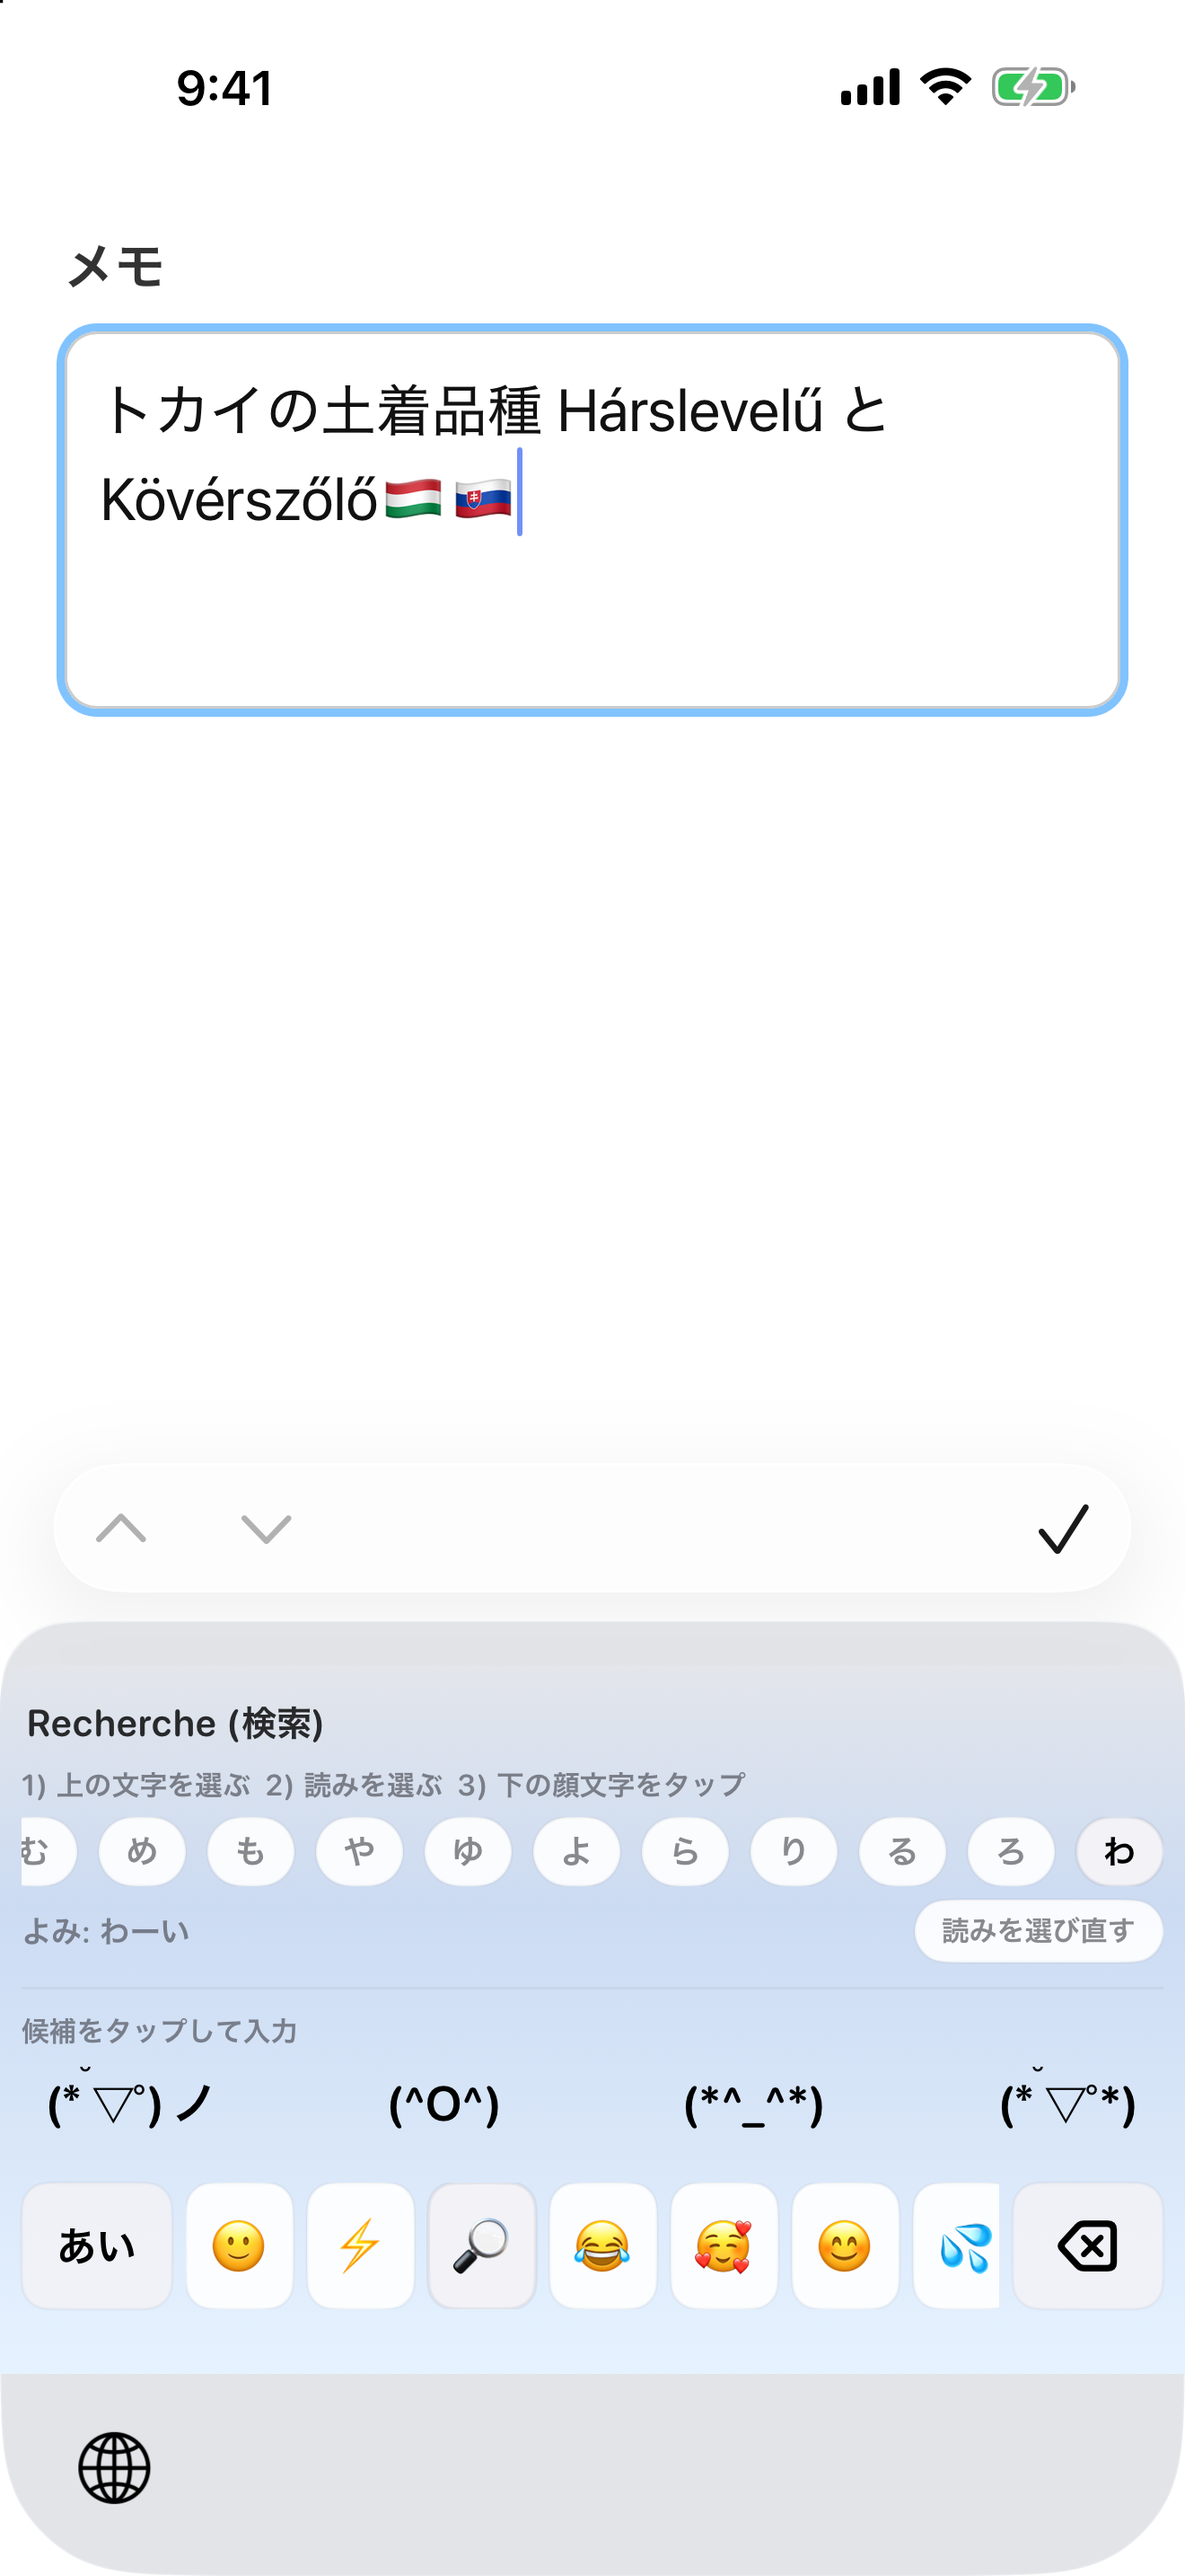
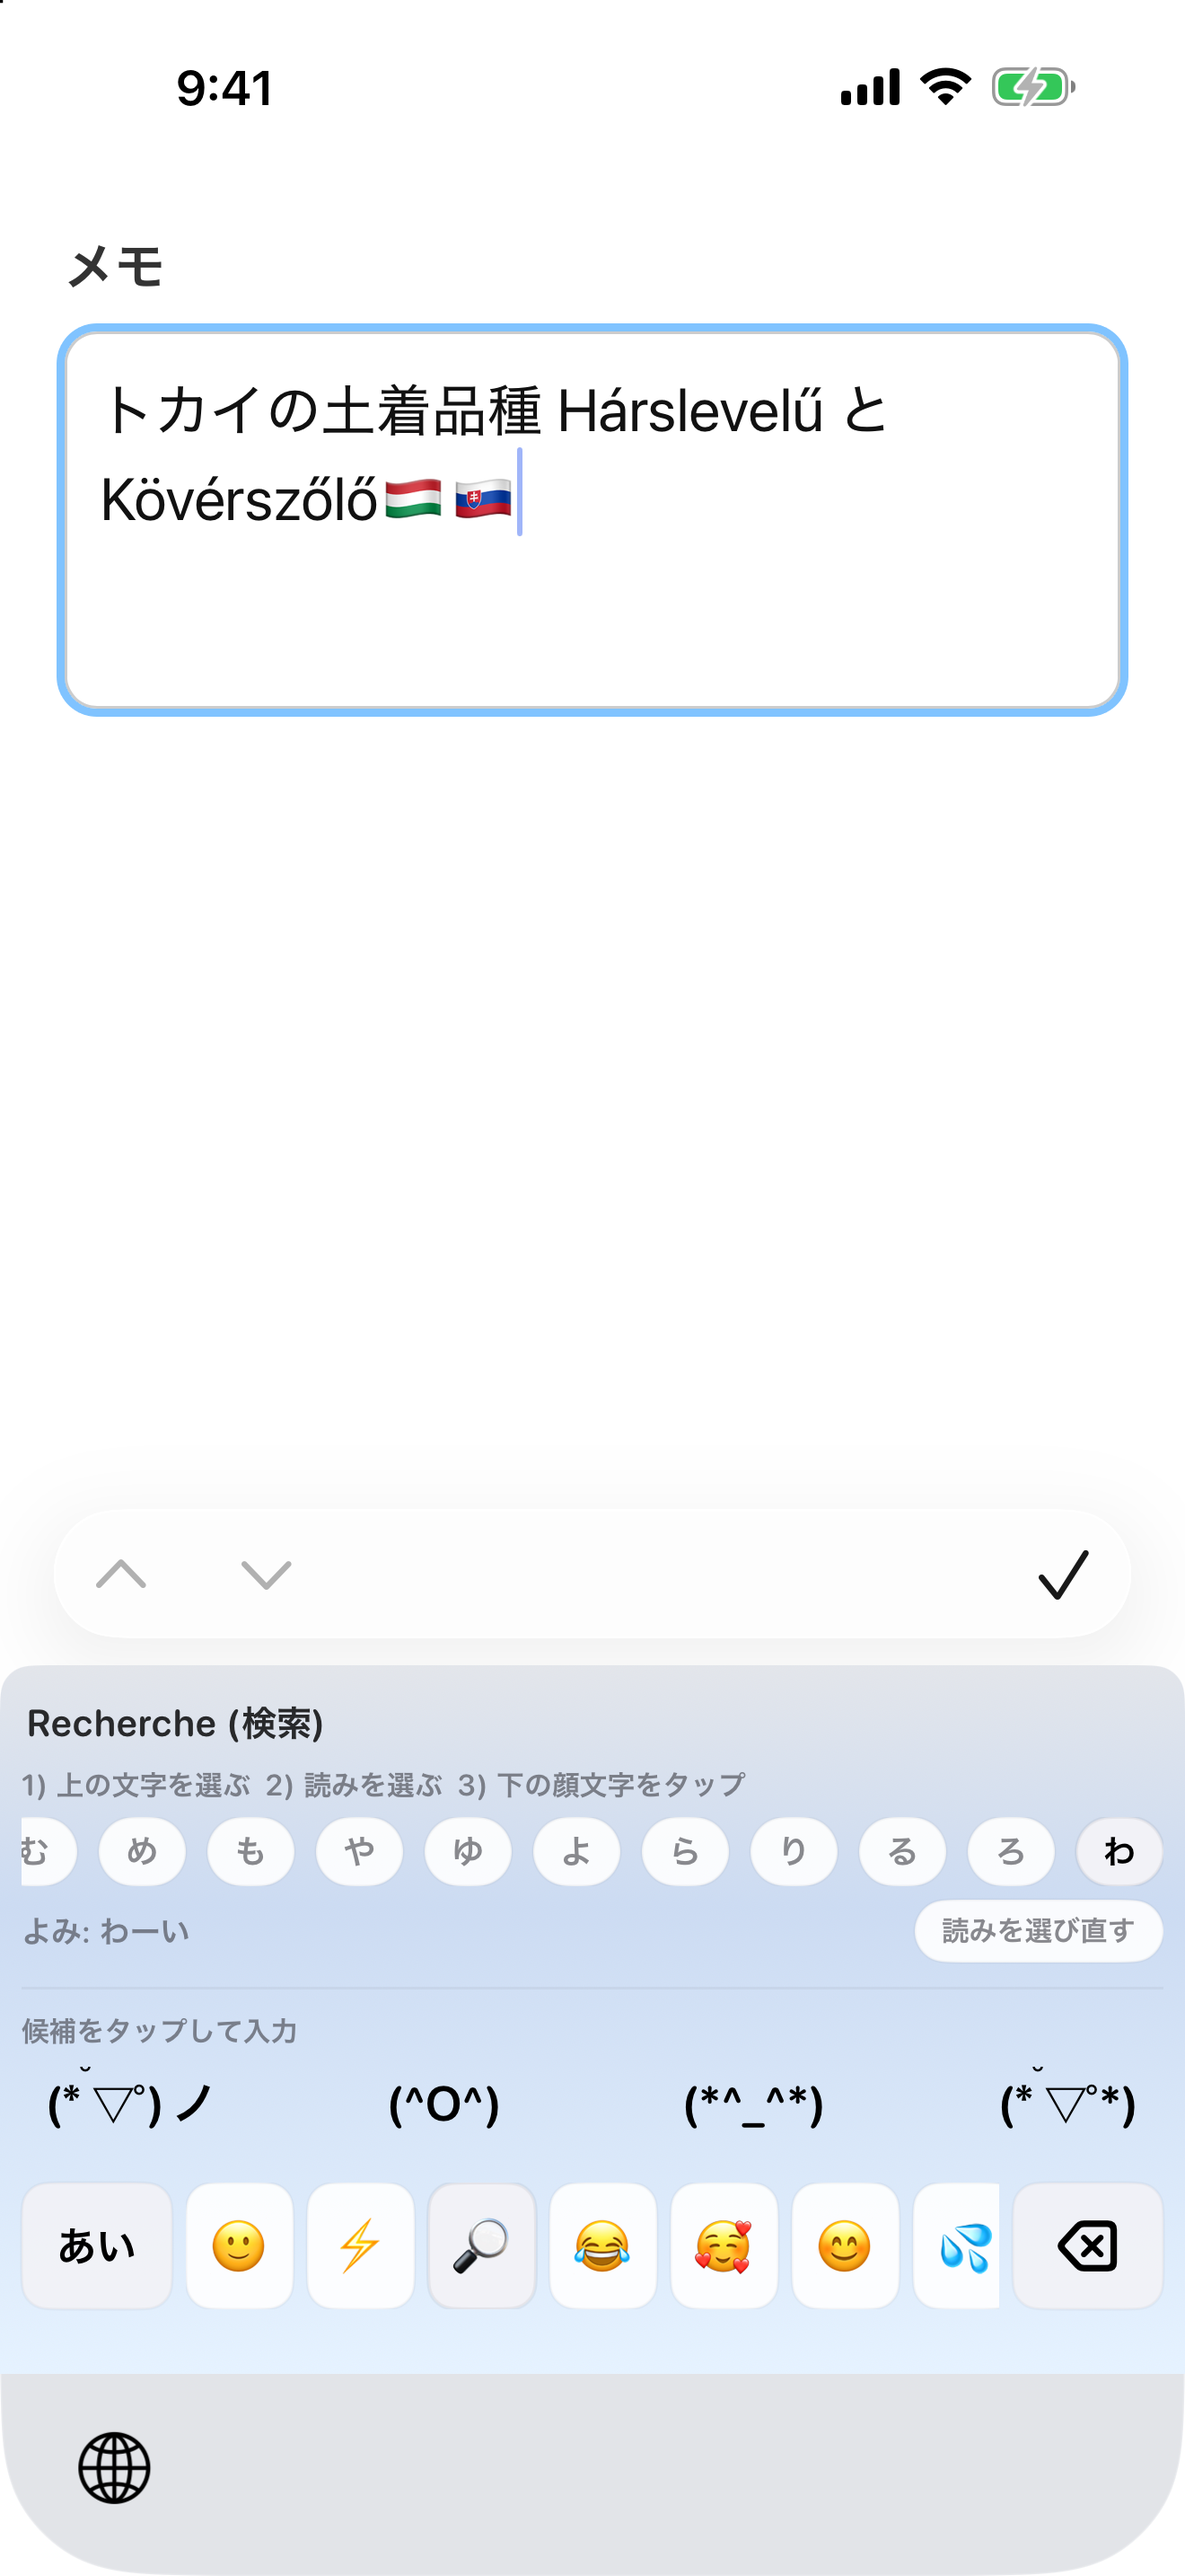
docs(appstore): スクリーンショット 01・03・04 を、iOS が足す 17pt の余白が付かない回で撮り直し、高さを 02 にそろえる
撮影では製品の上余白の補正を切っているので、iOS が他社製キーボードの上に 17pt の余白を足した回だけ
キーボードが高く写っていた(01・03・04)。アプリの入れ直しを省く SKIP_INSTALL=1 と、最初から指定の面で開く
フックを足し、余白が付かない回を選んだ。5 枚ともキーボードの上端が同じ位置にそろったことを画素で確かめた。
高さの測り方と対策を screenshots-plan.md に記録した。

diff --git a/appstore/apply-screenshot-hooks.py b/appstore/apply-screenshot-hooks.py
@@ -242,7 +242,30 @@ patch("KeyboardViewController+Layout.swift", [(
     "    static let hostPlaceholderTopInset: CGFloat = 0  // ★撮影用の一時変更(コミットしない)",
 )])
 
-# 6. 2 段階フリックの吹き出しを出したままにする
+# 6. 指定の面で最初から開く(高さの申告より前に面を決める)。表示直後に かな→絵文字 と切り替えると、
+#    iOS が余白(17pt)を足す表示経路に入りやすかった(take 7 の 03 で 8 回連続)
+patch("KeyboardViewController+Rendering.swift", [(
+    """    func preferredInitialInputMode() -> KeyboardInputMode {
+        switch textDocumentProxy.keyboardType {""",
+    """    func preferredInitialInputMode() -> KeyboardInputMode {
+        if let seeded = ScreenshotSeed.inputMode {  // ★撮影用の一時フック(コミットしない)
+            return seeded
+        }
+        switch textDocumentProxy.keyboardType {""",
+)])
+patch("KeyboardViewController.swift", [(
+    """        super.viewDidLoad()
+        MemoryForensics.notePhase("個体の生成(viewDidLoad)")
+""",
+    """        super.viewDidLoad()
+        MemoryForensics.notePhase("個体の生成(viewDidLoad)")
+        if let seeded = ScreenshotSeed.inputMode {  // ★撮影用の一時フック(コミットしない)
+            currentInputMode = seeded
+        }
+""",
+)])
+
+# 7. 2 段階フリックの吹き出しを出したままにする
 patch("FlickKeyView.swift", [(
     """        .contentShape(Rectangle())
         .gesture(flickGesture)""",

diff --git a/appstore/screenshots-plan.md b/appstore/screenshots-plan.md
@@ -13,7 +13,7 @@
 3. 下記「撮影用の入力ページ」をホーム画面に追加し、そのアイコンから起動
 4. 地球儀で écritu に切替 → `xcrun simctl io <UD> screenshot appstore/screenshots/NN-name.png`
 
-## 撮影状態(take 7 = 現行、2026-10-02。01〜05 を上余白の補正なしで撮り直し)
+## 撮影状態(take 7 = 現行、2026-10-02。01〜05 を上余白の補正なしで撮り直し、高さを 02 にそろえた)
 
 6枚すべて撮影済み・1320×2868。ホーム画面に追加した `capture-page.html` から起動して撮ったため、
 Safari のドメイン表示ピルもツールバーも写っていない。音声入力はオフでマイクも無し。
@@ -123,6 +123,14 @@ take 6 で使った種(iPhone 17 Pro Max、`B907C0B8-0540-436D-9D10-2E5747498716
 **上余白の補正を切ってから撮る**(take 7、2026-10-02)。3264 以降、縦画面は 17pt の透明な帯を足して高く申告する
 (実機のホストが付ける灰色の余白を打ち消すため)。シミュレーターのホストは余白を付けないので、帯がそのまま
 キーボードの上の空白として写る。apply-screenshot-hooks.py が `hostPlaceholderTopInset` を 0 にする。
+
+**高さがそろっているか必ず測る**(take 7 の差し替え)。iOS はキーボードを出す経路によって、他社製キーボードの上に
+17pt の灰色の余白を足す(製品は補正で打ち消すが、撮影では補正を切っている)。余白が付いた回はキーボードが 17pt 高く
+写る。6.9 インチなら、中央の列でホストの入力補助バーの下端が y=1824・キーボードの上端が 1854 になっていれば正しい
+(余白付きは 1773/1803)。余白が付きやすい条件と対策:
+- アプリの入れ直し直後 → 入れ直しは先に済ませ、撮影は `SKIP_INSTALL=1` で起動し直すだけにする
+- 表示直後の面の切り替え(かな→絵文字)→ apply-screenshot-hooks.py の 6 で最初から指定の面で開く
+- それでも付く回はある → 起動し直しを数回繰り返して、付かない回を選ぶ
 
 **純正キーボードが写り続けたら**、装着失敗で iOS が「最後に使ったキーボード」を純正に切り替えて覚えている。
 停止中に `D/Library/Preferences/com.apple.keyboard.preferences.plist` の `KeyboardLastUsed`・
